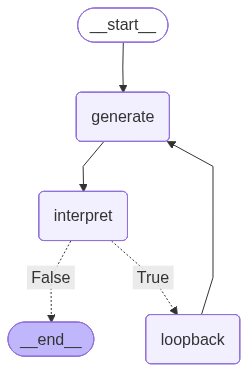
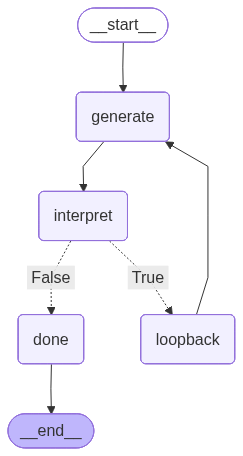
Completed basic version, next step: icl, then RAG

diff --git a/llm/workflows/steps/generate.py b/llm/workflows/steps/generate.py
@@ -54,7 +54,7 @@ def node(state: State):
         assert output_dir is not None, "output_dir cannot be None"
         assert os.path.isdir(output_dir), f"output_dir must exist: {output_dir}"
     except AssertionError as e:
-        logging.error(e)
+        logger.error(e)
         raise e
 
     # construct user message
@@ -62,7 +62,7 @@ def node(state: State):
         with open(input_file_path, "r") as f:
             allo_content = f.read()
     except Exception as e:
-        logging.error(e)
+        logger.error(e)
         raise e
 
     # additional instructions
@@ -74,7 +74,7 @@ def node(state: State):
             if additional_instructions.strip() != "":
                 instructions_suffix = additional_instructions_suffix.format(additional_instructions=additional_instructions)
         except FileNotFoundError as e:
-            logging.warning(f"instructions_file_path: {instructions_file_path} not found. No instructions given")
+            logger.warning(f"instructions_file_path: {instructions_file_path} not found. No instructions given")
 
      
     # retry context
@@ -84,8 +84,8 @@ def node(state: State):
         loopback_suffix = ""
     
     user_msg = user_message.format(allo_dsl=allo_content) + instructions_suffix + loopback_suffix
-    logging.info(f"system_msg: {system_message}")
-    logging.info(f"user_msg: {user_msg}")
+    logger.info(f"system_msg: {system_message}")
+    logger.info(f"user_msg: {user_msg}")
 
     # generate
     retry = True
@@ -105,10 +105,10 @@ def node(state: State):
             acc_c_token += completion_token
             
             # log attempts
-            logging.info(f"Attempt #{retry_idx}")
-            logging.info(f"llm_response: {llm_response}")
-            logging.info(f"prompt_token: {prompt_token}")
-            logging.info(f"completion_token: {completion_token}")
+            logger.info(f"Attempt #{retry_idx}")
+            logger.info(f"llm_response: {llm_response}")
+            logger.info(f"prompt_token: {prompt_token}")
+            logger.info(f"completion_token: {completion_token}")
 
             # process llm response
             parsed_response = re.findall(r"<CODE>(.*?)</CODE>", llm_response, flags=re.DOTALL)
@@ -116,7 +116,7 @@ def node(state: State):
             retry = False
 
         except Exception as e:
-            logging.error(e)
+            logger.error(e)
             retry_idx += 1
             if retry_idx >= 10:
                 raise e

diff --git a/llm/workflows/steps/done.py b/llm/workflows/steps/done.py
@@ -1,0 +1,48 @@
+import logging
+import os
+from typing import List, Dict
+logger = logging.getLogger(__name__)
+
+from ..states import (
+    State
+)
+
+def node(state: State):
+    gen_idx = state.get("gen_idx", 0)
+    error_code = state.get("error_code", None)
+    prompt_token = state.get("prompt_token", None)
+    completion_token = state.get("completion_token", None)
+    input_file_path = state.get("input_file_path", None)
+    output_dir = state.get("output_dir", None)
+    basename = state.get("basename", None)
+
+    output_file_path = os.path.join(output_dir, f"{basename}_{gen_idx}.x")
+
+    try:
+        assert error_code is not None, "error_code cannot be None"
+        assert prompt_token is not None, "prompt_token cannot be None"
+        assert completion_token is not None, "completion_token cannot be None"
+        assert input_file_path is not None, "input_file_path cannot be None"
+        assert os.path.isfile(input_file_path), f"input_file_path must exist: {input_file_path}"
+        assert output_dir is not None, "output_dir cannot be None"
+        assert basename is not None, "basename cannot be None"
+        assert os.path.isfile(output_file_path), f"output_file_path must exist: {output_file_path}"
+    except AssertionError as e:
+        logger.error(e)
+        raise e
+    
+    # check if error is solved
+    if error_code:
+        logger.info("status: fail")
+        logger.info(f"input source: {input_file_path}")
+        logger.info(f"final output file path: N/A")
+        logger.info(f"prompt tokens: {prompt_token}")
+        logger.info(f"completion tokens: {completion_token}")
+        logger.info(f"number of generations: {gen_idx + 1}")
+    else:
+        logger.info("status: success")
+        logger.info(f"input source: {input_file_path}")
+        logger.info(f"final output file path: {output_file_path}")
+        logger.info(f"prompt tokens: {prompt_token}")
+        logger.info(f"completion tokens: {completion_token}")
+        logger.info(f"number of generations: {gen_idx + 1}")

diff --git a/llm/workflows/steps/loopback.py b/llm/workflows/steps/loopback.py
@@ -1,8 +1,5 @@
 import logging
-import re
 import os
-import docker
-import uuid
 from typing import List, Dict
 logger = logging.getLogger(__name__)
 
@@ -25,7 +22,7 @@ def node(state: State):
         assert error_code is not None, "error_code cannot be None"
         assert error_message is not None, f"error_message cannot be None"
     except AssertionError as e:
-        logging.error(e)
+        logger.error(e)
         raise e
     
     # get the original generated output
@@ -37,7 +34,7 @@ def node(state: State):
 
         assert generated_output.strip() != "", f"found empty generated content: {output_file}"
     except Exception as e:
-        logging.error(e)
+        logger.error(e)
         raise e
 
     # accumulate the output for this generation
@@ -47,14 +44,12 @@ def node(state: State):
     }]
 
     acc_output += output_summary
-    logging.info(acc_output)
+    logger.info(acc_output)
     loopback_context = format_context(acc_output)
-
-    logging.info(f"loopback_context: \n{loopback_context}")
 
     return {
         "gen_idx": 1,
-        "loopback_context": format_context(acc_output),
+        "loopback_context": loopback_context,
         "acc_output": output_summary
     }
 
@@ -62,8 +57,8 @@ def format_context(acc_output: List[Dict]):
     output = ""
     for i in range(len(acc_output)):
         output += f"Generation {i}: \n"
-        output += f'{acc_output[i]["generated_output"]} \n'
+        output += f'{acc_output[i]["generated_output"].strip()} \n'
         output += '\n'
         output += f"Error message {i}: \n"
-        output += f'{acc_output[i]["error_message"]} \n\n'
+        output += f'{acc_output[i]["error_message"].strip()} \n\n'
     return output

diff --git a/llm/workflows/steps/interpret.py b/llm/workflows/steps/interpret.py
@@ -24,7 +24,7 @@ def node(state: State):
         assert os.path.isdir(output_dir), f"output_dir must exist: {output_dir}"
         assert os.path.isfile(output_file), f"output_file must exist: {output_file}"
     except AssertionError as e:
-        logging.error(e)
+        logger.error(e)
         raise e
 
     # docker
@@ -32,7 +32,7 @@ def node(state: State):
     client = docker.from_env()
 
     # copy output file content to docker image temp dir
-    logging.info(f"copying output file to container {container_name}")
+    logger.info(f"copying output file to container {container_name}")
     output_container_path = f"/tmp/{basename}_{gen_idx}_{uuid.uuid4()}.txt"
     
     with open(output_file, "r") as f:
@@ -46,17 +46,19 @@ def node(state: State):
     try:
         assert exit_code == 0, f"failed to copy file to container: {output}"
     except AssertionError as e:
-        logging.error(e)
+        logger.error(e)
         raise e
     
-    logging.info(f"copied output file to {output_container_path}")
+    logger.info(f"copied output file to {output_container_path}")
 
     # run the interpreter
     interpreter_main = "~/xls/bazel-bin/xls/dslx/interpreter_main"
 
     error_code, error_message = container.exec_run(["sh", "-c", f"{interpreter_main} {output_container_path}"])
 
-    logging.info(f"interpreter output: {error_message}")
+    error_message = error_message.decode("utf-8")
+
+    logger.info(f"interpreter output: {error_message}")
     
     return {
         "error_code": error_code,

diff --git a/llm/workflows/graph.py b/llm/workflows/graph.py
@@ -9,7 +9,8 @@ from langchain_core.runnables.graph import MermaidDrawMethod
 from workflows.steps import (
     generate,
     interpret,
-    loopback
+    loopback,
+    done
     )
 from workflows.routers import router
 
@@ -20,13 +21,15 @@ graph_builder = StateGraph(State)
 graph_builder.add_node("generate", generate.node)
 graph_builder.add_node("interpret", interpret.node)
 graph_builder.add_node("loopback", loopback.node)
+graph_builder.add_node("done", done.node)
 
 graph_builder.add_edge(START, "generate")
 graph_builder.add_edge("generate", "interpret")
 graph_builder.add_conditional_edges("interpret", router,
-                                    {True: "loopback", False: END})
+                                    {True: "loopback", False: "done"})
 graph_builder.add_edge("loopback", "generate")
+graph_builder.add_edge("done", END)
 
 workflow = graph_builder.compile()
 
-# workflow.get_graph().draw_mermaid_png(output_file_path="workflow_graph.png")
+workflow.get_graph().draw_mermaid_png(output_file_path="workflow_graph.png")

diff --git a/llm/main.py b/llm/main.py
@@ -8,7 +8,7 @@ import logging
 
 # Create and configure logger
 logging.basicConfig(filename="output.log",
-                    format='%(asctime)s %(message)s',
+                    format='%(asctime)s - %(name)s - %(levelname)s - %(message)s',
                     filemode='w',
                     level=logging.INFO)
 
@@ -48,7 +48,7 @@ def setup():
 
 def main():
     initialization = setup()
-    workflow.invoke(initialization)
+    workflow.invoke(initialization, {"recursion_limit": 35})
 
 if __name__ == "__main__":
     main()

diff --git a/llm/workflows/states.py b/llm/workflows/states.py
@@ -64,5 +64,9 @@ class State(TypedDict):
 
     # ----------- done ----------- TODO
     # inputs
-    prompt_token: int
-    completion_token: int
+    # - error_code
+    # - gen_idx
+    # - prompt_token
+    # - completion_token
+    # - output_dir
+    # - basename

diff --git a/llm/workflows/routers.py b/llm/workflows/routers.py
@@ -8,4 +8,4 @@ def router(state: State) -> bool:
 
     Router checks if there are errors in the overall state.
     """
-    return state["error_code"] and (state.get("gen_idx", 0) < 10)
+    return state["error_code"] and (state.get("gen_idx", 0) < 9)
